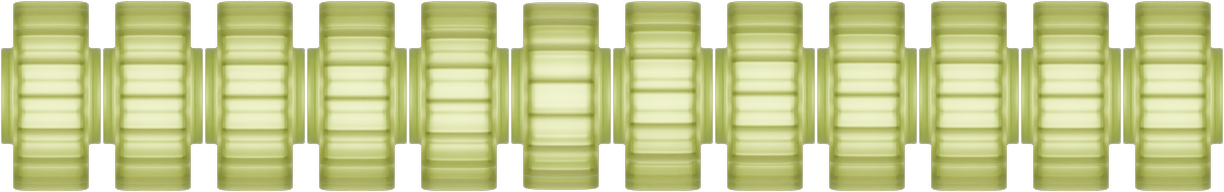
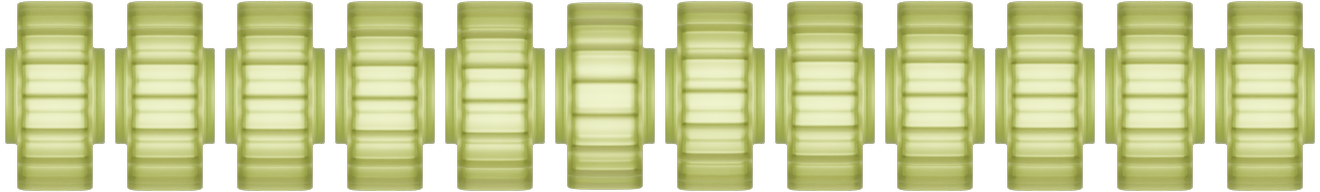
Scroll wheel: back to animation 1 at new size/position, padded sprite

diff --git a/app/globals.css b/app/globals.css
@@ -384,15 +384,15 @@ a:focus-visible {
 }
 
 /* Scroll-wheel icon to the left of the titles, at the thumbnail's mid-height.
-   12-frame sprite (Icons/Icon-Animation-2), 25 × 72 per frame; JS steps background-position.
-   (First animation: /images/ui/scroll-wheel.png, 51px frames, 612px strip.) */
+   12-frame sprite (Icons/Icon-Animation, with ~2px transparent padding per frame), 41.25 × 72 per frame; JS steps background-position.
+   (Animation 2: /images/ui/scroll-wheel-2.png — 25px frames, 300px strip.) */
 .work-list__wheel {
   position: absolute;
-  left: -95px;                        /* 55px clear of the lime marker square */
+  left: -111px;                       /* wheel itself ~55px clear of the lime marker square */
   top: calc((372px - 72px) / 2);
-  width: 25px;
+  width: 41.25px;
   height: 72px;
-  background: url('/images/ui/scroll-wheel-2.png') 0 0 / 300px 72px no-repeat;
+  background: url('/images/ui/scroll-wheel.png') 0 0 / 495px 72px no-repeat;
   /* Feathered top and bottom, like the wheel disappears into the surface */
   -webkit-mask-image: linear-gradient(to bottom, transparent, #000 30%, #000 70%, transparent);
   mask-image: linear-gradient(to bottom, transparent, #000 30%, #000 70%, transparent);

diff --git a/app/work/visual-arts/WorkList.js b/app/work/visual-arts/WorkList.js
@@ -9,8 +9,8 @@ const STEP_DELTA = 40   // trackpad distance that counts as one notch
 const NOTCH = 50        // a single wheel event this big is a mouse-wheel notch → exactly one step
 const SNAP_MS = 140     // quick snap per notch — tactile, not smooth
 const DRAG_STEP = 24    // px of dragging the scroll wheel that counts as one step
-const WHEEL_FRAMES = 12 // frames in the scroll-wheel sprite (public/images/ui/scroll-wheel-2.png)
-const WHEEL_W = 25      // displayed width of one frame (sprite strip shown at 300 × 72)
+const WHEEL_FRAMES = 12 // frames in the scroll-wheel sprite (public/images/ui/scroll-wheel.png)
+const WHEEL_W = 41.25   // displayed width of one frame (strip shown at 495 × 72; animation 2: 25)
 const FRAME_MS = 16     // per frame → one full turn ≈ 0.2s
 
 // Work list (Figma: Work frame, node 14:37).

diff --git a/CHANGELOG.md b/CHANGELOG.md
@@ -1,5 +1,8 @@
 # Changelog
 
+## 2026-10-31 — Back to scroll-wheel animation 1
+- Switched back to `Icons/Icon-Animation` (first set), keeping the 72px height, ~55px clearance and feathered edges. Sprite rebuilt with ~2px transparent padding per frame (1320×192 → shown 495×72, 41.25px frames) so no sliver of a neighbouring frame shows at fractional sizes. Animation 2 sprite kept (`scroll-wheel-2.png`).
+
 ## 2026-10-31 — Scroll wheel refinements
 - Wheel smaller (33×96 → 25×72), further left (55px clear of the lime marker), feathered top and bottom (mask fade).
 
